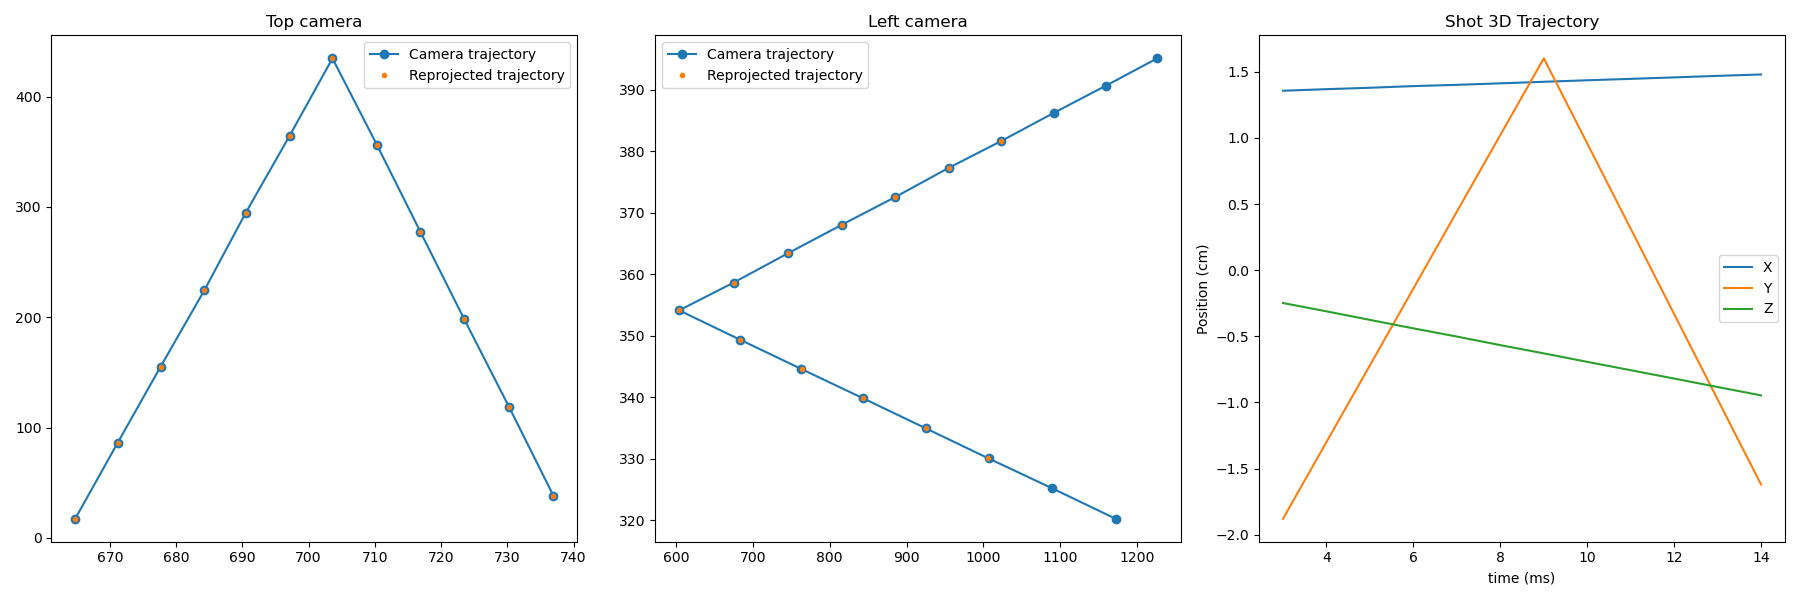
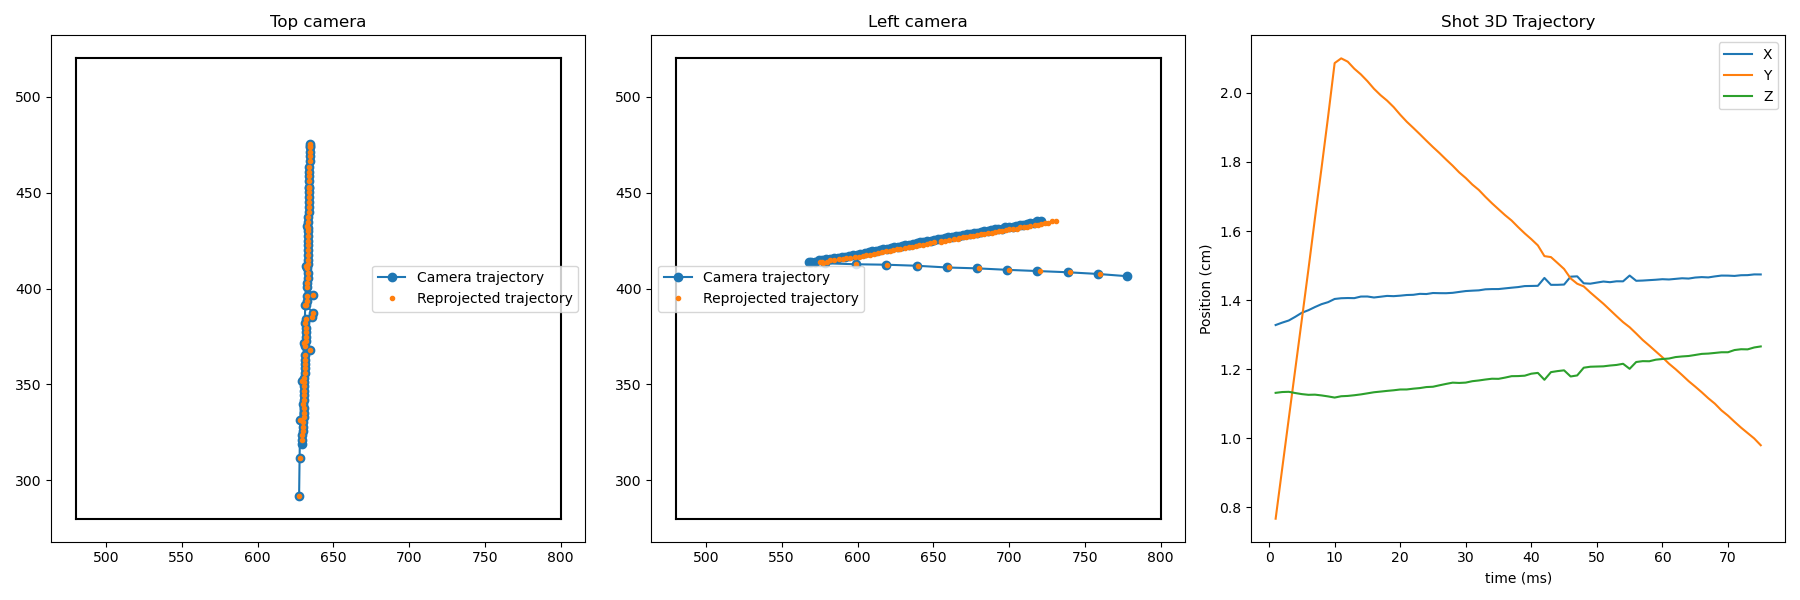
Enhanced optimize method robustness

diff --git a/data_treat/reconstruction_3d.py b/data_treat/reconstruction_3d.py
@@ -1,6 +1,6 @@
 """functions to reconstruct the object 3D trajectory"""
 import numpy as np
-from scipy.optimize import least_squares
+from scipy.optimize import least_squares, differential_evolution
 from scipy.interpolate import interp1d
 from data_treat.objectExtract import compute_2d_traj
 import matplotlib.pyplot as plt
@@ -79,13 +79,13 @@ def plot_proj_error(traj_top, traj_left, X, Y, Z, cam_top, cam_left, savedir='da
     ax1.set_title("Top camera")
     ax1.plot(traj_top[:, 0], traj_top[:, 1], 'o-', label="Camera trajectory")
     ax1.plot(x_top, y_top,'.', label="Reprojected trajectory")
-    # plot_square(cam_top)
+    plot_square(cam_top, ax1)
     ax1.legend()
 
     ax2.set_title("Left camera")
     ax2.plot(traj_left[:, 0], traj_left[:, 1], 'o-', label="Camera trajectory")
     ax2.plot(x_left, y_left, '.', label="Reprojected trajectory")
-    # plot_square(cam_left)
+    plot_square(cam_left, ax2)
     ax2.legend()
 
     ax3.set_title("Shot 3D Trajectory")
@@ -103,7 +103,7 @@ def plot_proj_error(traj_top, traj_left, X, Y, Z, cam_top, cam_left, savedir='da
     #plt.show(block=False)
 
 
-def plot_square(cam):
+def plot_square(cam, ax):
     """Plot a square repreentive the cropped camera screen
 
     :param cam: camera object
@@ -112,10 +112,10 @@ def plot_square(cam):
     B = [cam.camRes[0] / 2 + cam.res[0] / 2, cam.camRes[1] / 2 - cam.res[1] / 2]
     C = [cam.camRes[0] / 2 + cam.res[0] / 2, cam.camRes[1] / 2 + cam.res[1] / 2]
     D = [cam.camRes[0] / 2 - cam.res[0] / 2, cam.camRes[1] / 2 + cam.res[1] / 2]
-    plt.plot([A[0], B[0]], [A[1], B[1]], color="black")
-    plt.plot([B[0], C[0]], [B[1], C[1]], color="black")
-    plt.plot([C[0], D[0]], [C[1], D[1]], color="black")
-    plt.plot([D[0], A[0]], [D[1], A[1]], color="black")
+    ax.plot([A[0], B[0]], [A[1], B[1]], color="black")
+    ax.plot([B[0], C[0]], [B[1], C[1]], color="black")
+    ax.plot([C[0], D[0]], [C[1], D[1]], color="black")
+    ax.plot([D[0], A[0]], [D[1], A[1]], color="black")
 
 
 def get_proj_list(X, Y, Z, cam):
@@ -181,11 +181,14 @@ def get_3d_coor(minspan_len, traj_2d_left, traj_2d_top, cam_left, cam_top, metho
             X_coor[i], Y_coor[i], Z_coor[i] = [np.nan, np.nan, np.nan]
 
     if method == "persp-opti":
+        #tau_0 = 0.7e-5
         tau_0 = 0.
         args = (X_coor, Y_coor, Z_coor, cam_left, cam_top, traj_2d_left, traj_2d_top, timespan)
-        res_act = least_squares(shift_error, tau_0, args=args)
+        #res_act = least_squares(shift_error, tau_0, args=args)
+        res_act = differential_evolution(shift_error, [(-timespan[1], timespan[1])], args=args)
         tau = float(res_act.x)
         X_coor, Y_coor, Z_coor, t1, t2 = get_shifted_3D(tau, X, Y, Z, cam_left, cam_top, traj_2d_left, traj_2d_top, timespan)
+        print(tau)
 
     return X_coor, Y_coor, Z_coor, t1, t2
 
@@ -202,16 +205,17 @@ def shift_error(tau, X, Y, Z, cam_left, cam_top, traj_left, traj_top, timespan):
     x, y, z, corr_top, corr_left = get_shifted_3D(tau, X, Y, Z, cam_left, cam_top, traj_left, traj_top, timespan)
     err = [0., 0., 0., 0.]
     len_traj = len(timespan)
-    for i in range(0, len_traj):
+    for i in range(0, len_traj-1):
         if not (np.isnan(X[i]) or np.isnan(Y[i]) or np.isnan(Z[i])):
             err_actu = get_proj_error([x[i], y[i], z[i]], cam_left, cam_top, corr_left[i, :], corr_top[i, :])
-            if np.sum(np.isnan(err_actu)) == 0:
-                err[0] += float(err_actu[0]) ** 2
-                err[1] += float(err_actu[1]) ** 2
-                err[2] += float(err_actu[2]) ** 2
-                err[3] += float(err_actu[3]) ** 2
+            w = np.sqrt((x[i + 1] - x[i]) ** 2 + (y[i + 1] - y[i]) ** 2 + (z[i + 1] - z[i]) ** 2)
+            if np.sum(np.isnan(err_actu)) == 0 and not(np.isnan(w)):
+                err[0] += w * float(err_actu[0]) ** 2
+                err[1] += w * float(err_actu[1]) ** 2
+                err[2] += w * float(err_actu[2]) ** 2
+                err[3] += w * float(err_actu[3]) ** 2
 
-    return err
+    return np.sum(err)
 
 
 def get_shifted_3D(tau, X, Y, Z, cam_left, cam_top, traj_left, traj_top, timespan):
